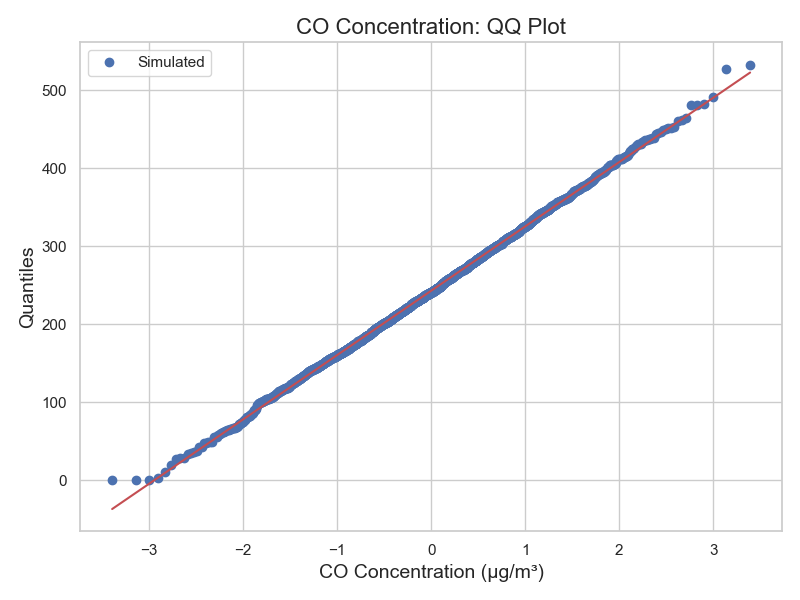
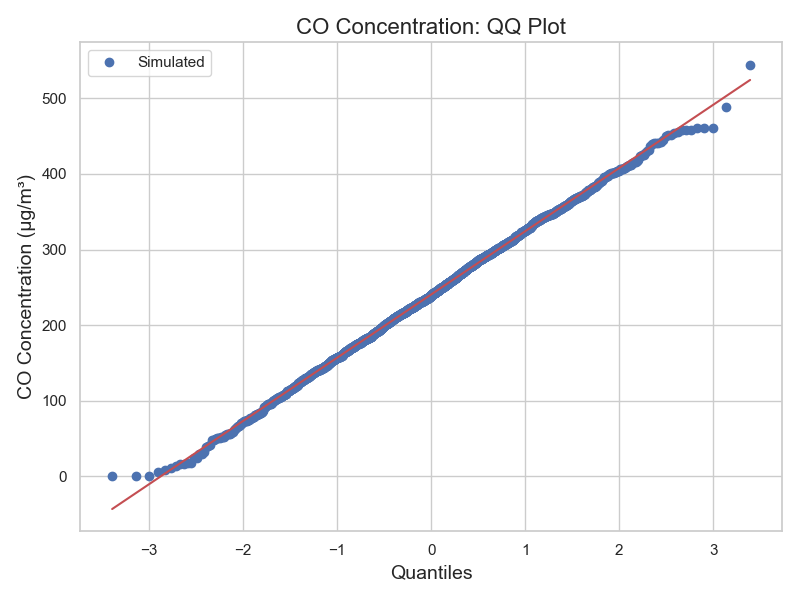
update evaluation scripts and add new plots with confidence intervals

diff --git a/evaluation/simulation_eval.py b/evaluation/simulation_eval.py
@@ -221,35 +221,53 @@ def plot_convergence(df, var, output_dir):
     plt.savefig(os.path.join(output_dir, f"convergence_{var}.png"))
     plt.close()
 
-
 def plot_diff_cement_green(df, output_dir):
-    bases = ["T", "T_air", "T_air_fac", "Rise", "Floors"]  # puoi aggiungere altri
+    bases = ["T", "T_air", "T_air_fac", "Rise", "Floors"]
+    n_runs = df['run_id'].nunique()
+    t_val = stats.t.ppf(0.975, n_runs - 1)
+
     for base in bases:
         col_c = f"{base}_cement"
         col_g = f"{base}_green"
         if col_c not in df.columns or col_g not in df.columns:
             continue
 
-        df_diff = df.groupby("hour")[[col_c, col_g]].mean()
-        df_diff["delta"] = df_diff[col_c] - df_diff[col_g]
+        hourly_data = []
+        for hour in range(24):
+            hour_df = df[df['hour'] == hour]
+            diff_series = hour_df[col_c] - hour_df[col_g]
+
+            mean_diff = diff_series.mean()
+            std_diff = diff_series.std()
+            ci_margin = t_val * (std_diff / np.sqrt(n_runs))
+
+            hourly_data.append({
+                "hour": hour,
+                "delta": mean_diff,
+                "ci": ci_margin
+            })
+
+        df_plot = pd.DataFrame(hourly_data)
 
         plt.figure()
-        plt.bar(df_diff.index, df_diff["delta"], color="purple", alpha=0.7)
-        plt.axhline(0, color='black', linewidth=0.8)  # zero line
-        plt.title(f"Difference Cement - Green ({base})")
+        bars = plt.bar(df_plot["hour"], df_plot["delta"], color="purple", alpha=0.6, label="Mean Δ")
+        plt.errorbar(df_plot["hour"], df_plot["delta"], yerr=df_plot["ci"], fmt='none',
+                     ecolor='black', capsize=3, elinewidth=1, label="95% CI")
+        plt.axhline(0, color='black', linewidth=0.8)
+        plt.title(f"Difference Cement - Green ({base}) with 95% CI")
         plt.xlabel("Hour")
-        # Units based on variable type
+
         if "T" in base:
             plt.ylabel("Δ [°C]")
-        elif "Rise" in base or "H_mix" in base:
+        elif "Rise" in base:
             plt.ylabel("Δ [m]")
         elif "Floors" in base:
             plt.ylabel("Δ [# floors]")
-        else:
-            plt.ylabel("Δ")
-        plt.xticks(df_diff.index)
+
+        plt.xticks(range(24))
+        plt.legend()
         plt.tight_layout()
-        plt.savefig(os.path.join(output_dir, f"{base}_cement_minus_green.png"))
+        plt.savefig(os.path.join(output_dir, f"{base}_delta_with_CI.png"))
         plt.close()
 
 

diff --git a/evaluation/weather_air_quality_eval.py b/evaluation/weather_air_quality_eval.py
@@ -156,8 +156,8 @@ def plot_hist_ecdf_qq(real_vals, gen_vals, var, title, unit, output_dir):
     gen_sample = np.random.choice(gen_vals, size=min(len(gen_vals), 2000), replace=False)
     stats.probplot(gen_sample, dist="norm", plot=plt)
     plt.title(f"{title}: QQ Plot", fontsize=16)
-    plt.xlabel(f"{title} {unit}", fontsize=14)
-    plt.ylabel("Quantiles", fontsize=14)
+    plt.xlabel("Quantiles", fontsize=14)
+    plt.ylabel(f"{title} {unit}", fontsize=14)
     plt.legend(["Simulated"])
     plt.tight_layout()
     plt.savefig(os.path.join(output_dir, f"{var}_qq.png"))
@@ -252,6 +252,7 @@ def run_evaluation(config):
 
     n_runs = df_sim['run_id'].nunique()
     t_val = stats.t.ppf(0.975, n_runs - 1)
+    print(f"Number of simulation runs: {n_runs}, t-value for 95% CI: {t_val:.4f}")
 
     report_lines = [f"{config['name'].upper()} EVALUATION REPORT\n"]
 
